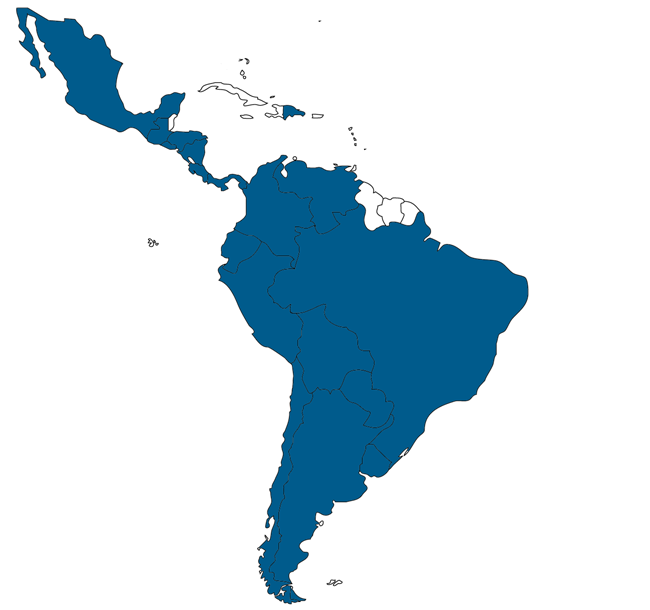
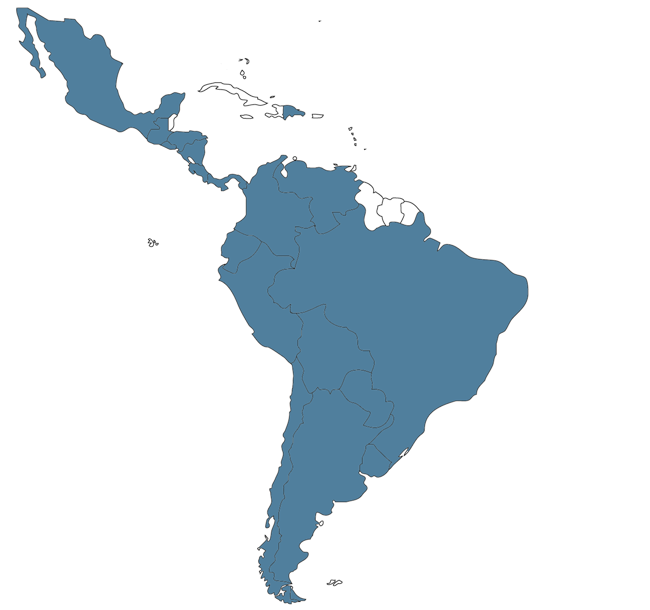
background stuffs

Changed region(s): [[0.0308, 0.0, 0.8308, 0.9967], [0.4308, 0.1557, 0.4615, 0.218]]

diff --git a/style.css b/style.css
@@ -437,13 +437,17 @@ body {
 	margin: 0 0 60px; /* bottom = footer height */
 	background: #fff; /* Fallback for when there is no custom background color defined. */
 	color: #333;
-}
-body.home{
-	background-image: url(img/sembg.jpg);
 	background-position: center center;
 	background-repeat: no-repeat;
 	background-attachment: fixed;
+	background-size: contain;
+}
+body.home{
+	background-image: url(img/sembg.jpg);
 	background-size: cover;
+}
+body,body.page-id-6{
+	background-image: url(img/mapbg.png);
 }
 @media only screen and (max-width: 767px) {
   body {
@@ -471,7 +475,7 @@ footer{
     bottom: 0;
     height: 60px;
     width: 100%;
-    background-color:#005288;
+	background-color:rgba(64,153,212,1);
     padding:20px;
     color: white;
    }
@@ -485,7 +489,7 @@ footer{
 	height:70px;
 	position: fixed;
 	left: 50px;
-	top: 50px;
+	top: 20px;
 }
 .main-navigation{
 	display: inline;
@@ -493,12 +497,14 @@ footer{
     height:70px;
     border: none;
     z-index: 20;
+
 }
 .menu-main-container{
 	position: relative;
     top: 30px;
 	float: right;
 	background-color:rgba(204,204,204, 0.8);
+	margin-right: 50px;
 
 }
 .main-navigation {
